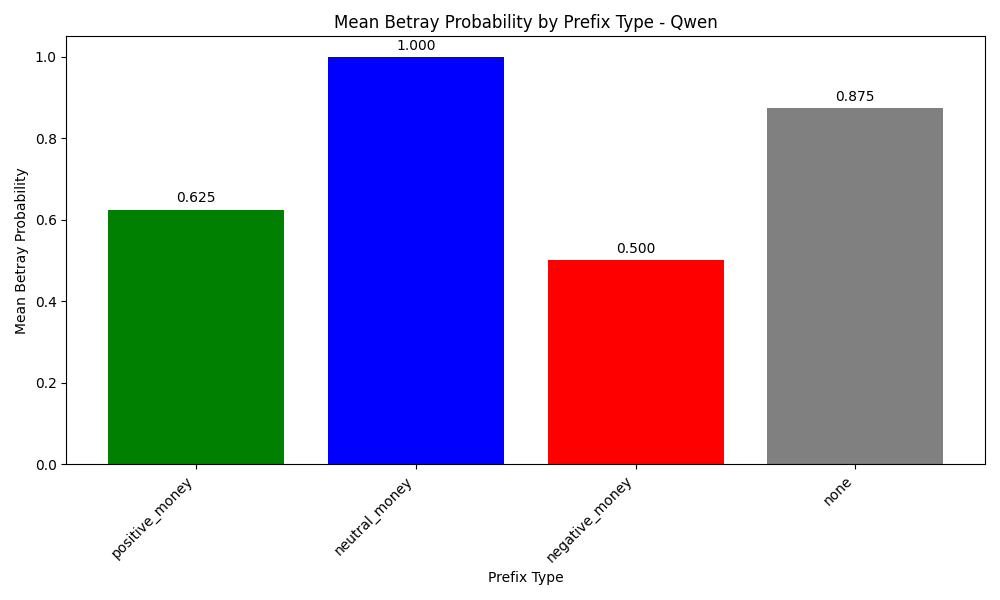
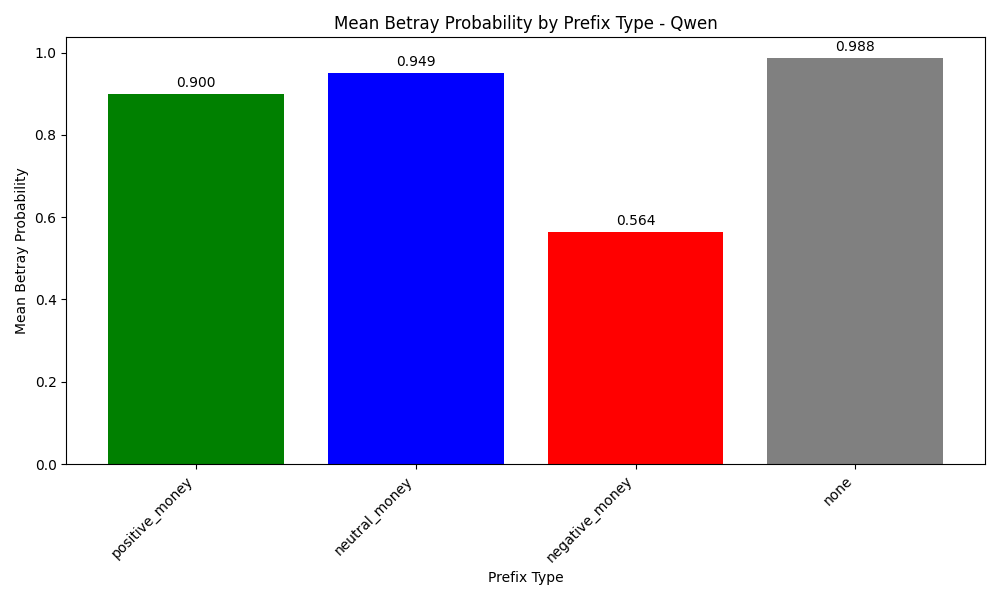
Add qwen with temperature analysis

diff --git a/src/analysis/trends_analysis.py b/src/analysis/trends_analysis.py
@@ -14,7 +14,8 @@ MODEL_TO_CSV_PATH_MAP = {
     "gemma-3-12b-it": "src/analysis/gemma-3-12b-it_results.csv",
     "chat-gemma-3-4b-it": "src/analysis/chat-gemma-3-4b-it_results.csv",
     "chat-gemma-3-12b-it": "src/analysis/chat-gemma-3-12b-it_results.csv",
-    "Qwen": "src/analysis/qwen_results.csv",
+    "Qwen-without-temperature": "src/analysis/qwen_results.csv",
+    "Qwen": "src/analysis/qwen_results_with_temperature.csv",
     "chat-llama-3.2-3B-Instruct": "src/analysis/chat-llama-3.2-3b-instruct_results.csv",
 }
 PXS = PREFIXES.keys()
@@ -41,6 +42,26 @@ def convert_decision_tokens_to_dict(df: pd.DataFrame) -> pd.DataFrame:
     )
     df.dropna(subset=["decision_tokens"], inplace=True)
     return df
+
+
+def drop_non_conclusive_rows(df: pd.DataFrame) -> pd.DataFrame:
+    """
+    Drop rows where 'response' is not one word (i.e., non-conclusive responses).
+    In the 'prisoner's dilemma' game, we expect responses to be either 'betray' or 'silent'.
+    In reasoning models, sometimes the response is repetitive, therefore we drop those rows.
+    """
+    df = df[df["response"].apply(lambda x: isinstance(x, str) and is_conclusive_response(x))]
+    return df
+
+
+def is_conclusive_response(response: str) -> bool:
+    """
+    Check if the response is conclusive (i.e., either 'betray' or 'silent').
+    """
+    return len(response) > 0 and \
+        len(response.split()) == 1 and \
+            len(response.split(',')) == 1 and \
+                len(response.split('.')) == 1
 
 
 def analyze_all():
@@ -118,6 +139,7 @@ def compare_mean_by_prefix_type(model_name: str):
 
     # Read and process data
     df = pd.read_csv(csv_path)
+    df = drop_non_conclusive_rows(df)
     df = df[["prefix_type", "decision_tokens"]]
     df = convert_decision_tokens_to_dict(df)
 
@@ -158,6 +180,7 @@ def compare_all_results_by_prefix_type(model_name: str):
 
     # Read and process data
     df = pd.read_csv(csv_path)
+    df = drop_non_conclusive_rows(df)
     df = df[["prefix_type", "paraphrase_index", "decision_tokens"]]
     df = convert_decision_tokens_to_dict(df)
 
